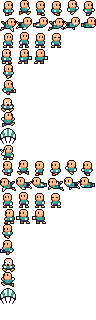
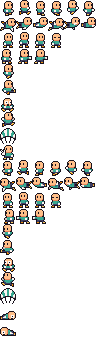
Added faceplant logic when taking fall damage

Changed region(s): [[0.0, 0.0, 1.0, 0.9688]]

diff --git a/src/player.js b/src/player.js
@@ -135,6 +135,28 @@ class Player {
             characterScale,   // scale - now consistent with game scale
             true // reverse
         );
+        this.facePlantLeftAnimation = new Animator(
+            ASSET_MANAGER.getAsset(`./assets/images/mrman/mrmansheet.png`),
+            16*0,  // xStart
+            16*20, // yStart
+            16, // width
+            16, // height
+            1,  // frameCount (adjust based on your sprite sheet)
+            1, // frameDuration
+            characterScale,   // scale - now consistent with game scale
+            true // reverse
+        );
+        this.facePlantRightAnimation = new Animator(
+            ASSET_MANAGER.getAsset(`./assets/images/mrman/mrmansheet.png`),
+            16*0,  // xStart
+            16*19, // yStart
+            16, // width
+            16, // height
+            1,  // frameCount (adjust based on your sprite sheet)
+            1, // frameDuration
+            characterScale,   // scale - now consistent with game scale
+            true // reverse
+        );
         this.speed = 5;
         this.direction = "right";
         this.velocity = 0;
@@ -184,6 +206,18 @@ class Player {
         this.bounceCount = 0; // Track number of bounces
         this.maxBounces = 2; // Maximum bounces before settling
         this.bounceDamping = 0.6; // Velocity reduction on each bounce
+        
+        // Fall damage system
+        this.isFalling = false; // Track if player is falling (not jumping)
+        this.fallStartY = 0; // Y position where the fall started (highest point while airborne)
+        this.isAirborne = false; // Track if player is in the air (jumping or falling)
+        this.fallDamageThreshold = 4; // Number of grid blocks before fall damage kicks in
+        this.fallDamagePerBlock = 1; // Damage per block fallen beyond threshold
+        
+        // Faceplant state (for fall damage)
+        this.isFacePlant = false; // Track if player is face-planted
+        this.facePlantTimer = 0;
+        this.facePlantDuration = 1.5; // Duration of faceplant stun in seconds
     }
 
     update() {
@@ -195,7 +229,20 @@ class Player {
         let deltaX = 0;
         let deltaY = 0;
         
-        if (this.isHurt) {
+        if (this.isFacePlant) {
+            // Handle faceplant state - player is stunned and can't move
+            this.facePlantTimer += this.gameEngine.clockTick;
+            
+            // Only apply gravity during faceplant
+            deltaY = this.velocity * this.gameEngine.clockTick * 60;
+            
+            // Check if faceplant duration is over
+            if (this.facePlantTimer >= this.facePlantDuration) {
+                this.isFacePlant = false;
+                this.facePlantTimer = 0;
+            }
+            // No other movement allowed during faceplant
+        } else if (this.isHurt) {
             // Handle hurt/knockback state
             this.hurtTimer += this.gameEngine.clockTick;
             
@@ -243,8 +290,8 @@ class Player {
             deltaY = this.velocity * this.gameEngine.clockTick * 60;
         }
         
-        // Punch input handling (only if not hurt)
-        if (!this.isHurt && this.gameEngine.consumeKey("p") && !this.isPunching && !this.isJumping && !this.isFlyingKick) {
+        // Punch input handling (only if not hurt and not face-planted)
+        if (!this.isHurt && !this.isFacePlant && this.gameEngine.consumeKey("p") && !this.isPunching && !this.isJumping && !this.isFlyingKick) {
             // Check if enough time has passed since last punch
             const currentTime = this.gameEngine.timer.gameTime;
             if ((currentTime - this.lastPunchTime) >= this.punchCooldown) {
@@ -267,8 +314,8 @@ class Player {
             }
         }
         
-        // Flying kick input handling (only if not hurt)
-        if (!this.isHurt && this.gameEngine.consumeKey("k") && !this.isFlyingKick && !this.isPunching) {
+        // Flying kick input handling (only if not hurt and not face-planted)
+        if (!this.isHurt && !this.isFacePlant && this.gameEngine.consumeKey("k") && !this.isFlyingKick && !this.isPunching) {
             // Check if enough time has passed since last flying kick
             const currentTime = this.gameEngine.timer.gameTime;
             if ((currentTime - this.lastFlyingKickTime) >= this.flyingKickCooldown) {
@@ -330,14 +377,38 @@ class Player {
             this.knockbackVelocityX *= 0.8;
         }
 
-        // Jumping (frame-independent) - only if not performing special attacks and not hurt
-        if (!this.isHurt && this.gameEngine.keys[" "] && !this.isJumping && !this.isPunching && !this.isFlyingKick) {
+        // Jumping (frame-independent) - only if not performing special attacks and not hurt and not face-planted
+        if (!this.isHurt && !this.isFacePlant && this.gameEngine.keys[" "] && !this.isJumping && !this.isPunching && !this.isFlyingKick) {
             this.gameEngine.audioManager.play("./assets/sounds/roblox-classic-jump.mp3", {
                 volume: 1,
                 playbackRate: 2.0,
             });
             this.velocity = -this.jumpStrength;
             this.isJumping = true;
+            
+            // Start airborne tracking - record current position as potential fall start
+            if (!this.isAirborne) {
+                this.isAirborne = true;
+                this.fallStartY = this.y; // Record position when becoming airborne
+            }
+        }
+        
+        // Track when player becomes airborne (falling off platforms)
+        if (this.velocity > 0 && !this.isJumping && !this.isAirborne) {
+            // Player started falling (stepped off a platform)
+            this.isAirborne = true;
+            this.isFalling = true;
+            this.fallStartY = this.y;
+        }
+        
+        // Update fall start position to highest point while airborne
+        if (this.isAirborne && this.y < this.fallStartY) {
+            this.fallStartY = this.y; // Update to highest point reached
+        }
+        
+        // Start falling state when airborne and moving downward
+        if (this.isAirborne && this.velocity > 0 && !this.isFalling) {
+            this.isFalling = true;
         }
 
         this.updateBoundingBox();
@@ -442,8 +513,15 @@ class Player {
         // Choose the appropriate animation based on state
         let currentAnimation;
         
-        if (this.isHurt) {
-            // Show hurt animation when hurt (highest priority)
+        if (this.isFacePlant) {
+            // Show faceplant animation when face-planted (highest priority)
+            if (this.direction === "left") {
+                currentAnimation = this.facePlantLeftAnimation;
+            } else {
+                currentAnimation = this.facePlantRightAnimation;
+            }
+        } else if (this.isHurt) {
+            // Show hurt animation when hurt
             if (this.direction === "left") {
                 currentAnimation = this.hurtLeftAnimation;
             } else {
@@ -513,9 +591,23 @@ class Player {
                 this.gameEngine.ctx.fillText(invulnText, invulnTextPos.x, invulnTextPos.y);
             }
             
+            // Draw faceplant state info
+            if (this.isFacePlant) {
+                const facePlantTextPos = this.gameEngine.camera.worldToScreen(this.x, this.y - this.height - 100);
+                this.gameEngine.ctx.fillStyle = "orange";
+                this.gameEngine.ctx.strokeStyle = "black";
+                this.gameEngine.ctx.lineWidth = 2;
+                this.gameEngine.ctx.font = "12px Arial";
+                this.gameEngine.ctx.textAlign = "center";
+                
+                const facePlantText = `FACEPLANT: ${(this.facePlantDuration - this.facePlantTimer).toFixed(1)}s`;
+                this.gameEngine.ctx.strokeText(facePlantText, facePlantTextPos.x, facePlantTextPos.y);
+                this.gameEngine.ctx.fillText(facePlantText, facePlantTextPos.x, facePlantTextPos.y);
+            }
+            
             // Draw hurt state info
             if (this.isHurt) {
-                const hurtTextPos = this.gameEngine.camera.worldToScreen(this.x, this.y - this.height - 100);
+                const hurtTextPos = this.gameEngine.camera.worldToScreen(this.x, this.y - this.height - 120);
                 this.gameEngine.ctx.fillStyle = "red";
                 this.gameEngine.ctx.strokeStyle = "black";
                 this.gameEngine.ctx.lineWidth = 2;

diff --git a/src/collisionmanager.js b/src/collisionmanager.js
@@ -112,6 +112,14 @@ class CollisionManager {
                 // Handle different types of vertical collisions
                 if (deltaY > 0) { // Moving down (falling) - hit ground
                     player.velocity = 0;
+                    
+                    // Handle fall damage if player was airborne
+                    if (player.isAirborne) {
+                        this.handleFallDamage(player);
+                        player.isAirborne = false;
+                        player.isFalling = false;
+                    }
+                    
                     player.isJumping = false;
                 } else if (deltaY < 0) { // Moving up (jumping) - hit ceiling
                     player.velocity = 0; // Stop upward movement immediately
@@ -190,5 +198,55 @@ class CollisionManager {
         }
         
         return true;
+    }
+    
+    /**
+     * Handle fall damage calculation and application
+     * @param {Player} player The player who landed
+     */
+    handleFallDamage(player) {
+        // Calculate fall distance in pixels
+        const fallDistance = player.y - player.fallStartY;
+        
+        // Convert to grid blocks using the actual tile size (tileSize * scale = 16 * 3 = 48 pixels per block)
+        const tilePixelSize = params.tileSize * params.scale;
+        const fallBlocks = fallDistance / tilePixelSize;
+        
+        // Only apply damage if fall is greater than threshold
+        if (fallBlocks > player.fallDamageThreshold) {
+            const excessBlocks = fallBlocks - player.fallDamageThreshold;
+            const damage = Math.floor(excessBlocks * player.fallDamagePerBlock);
+            
+            if (damage > 0) {
+                console.log(`Fall damage! Fell ${fallBlocks.toFixed(1)} blocks, taking ${damage} damage`);
+                
+                // Apply damage to player
+                player.currentHealth = Math.max(0, player.currentHealth - damage);
+                
+                // Trigger faceplant state
+                player.isFacePlant = true;
+                player.facePlantTimer = 0;
+                
+                // Reset faceplant animation to start from beginning
+                if (player.direction === "left") {
+                    player.facePlantLeftAnimation.reset();
+                } else {
+                    player.facePlantRightAnimation.reset();
+                }
+                
+                // Play hurt sound for fall damage
+                this.gameEngine.audioManager.play("./assets/sounds/hurt-sound.mp3", {
+                    volume: 0.4,
+                    startTime: 4.4,
+                    endTime: 4.7,
+                });
+                
+                // Check if player died from fall damage
+                if (player.currentHealth <= 0) {
+                    console.log("Player died from fall damage! Game Over.");
+                    player.removeFromWorld = true;
+                }
+            }
+        }
     }
 } 
